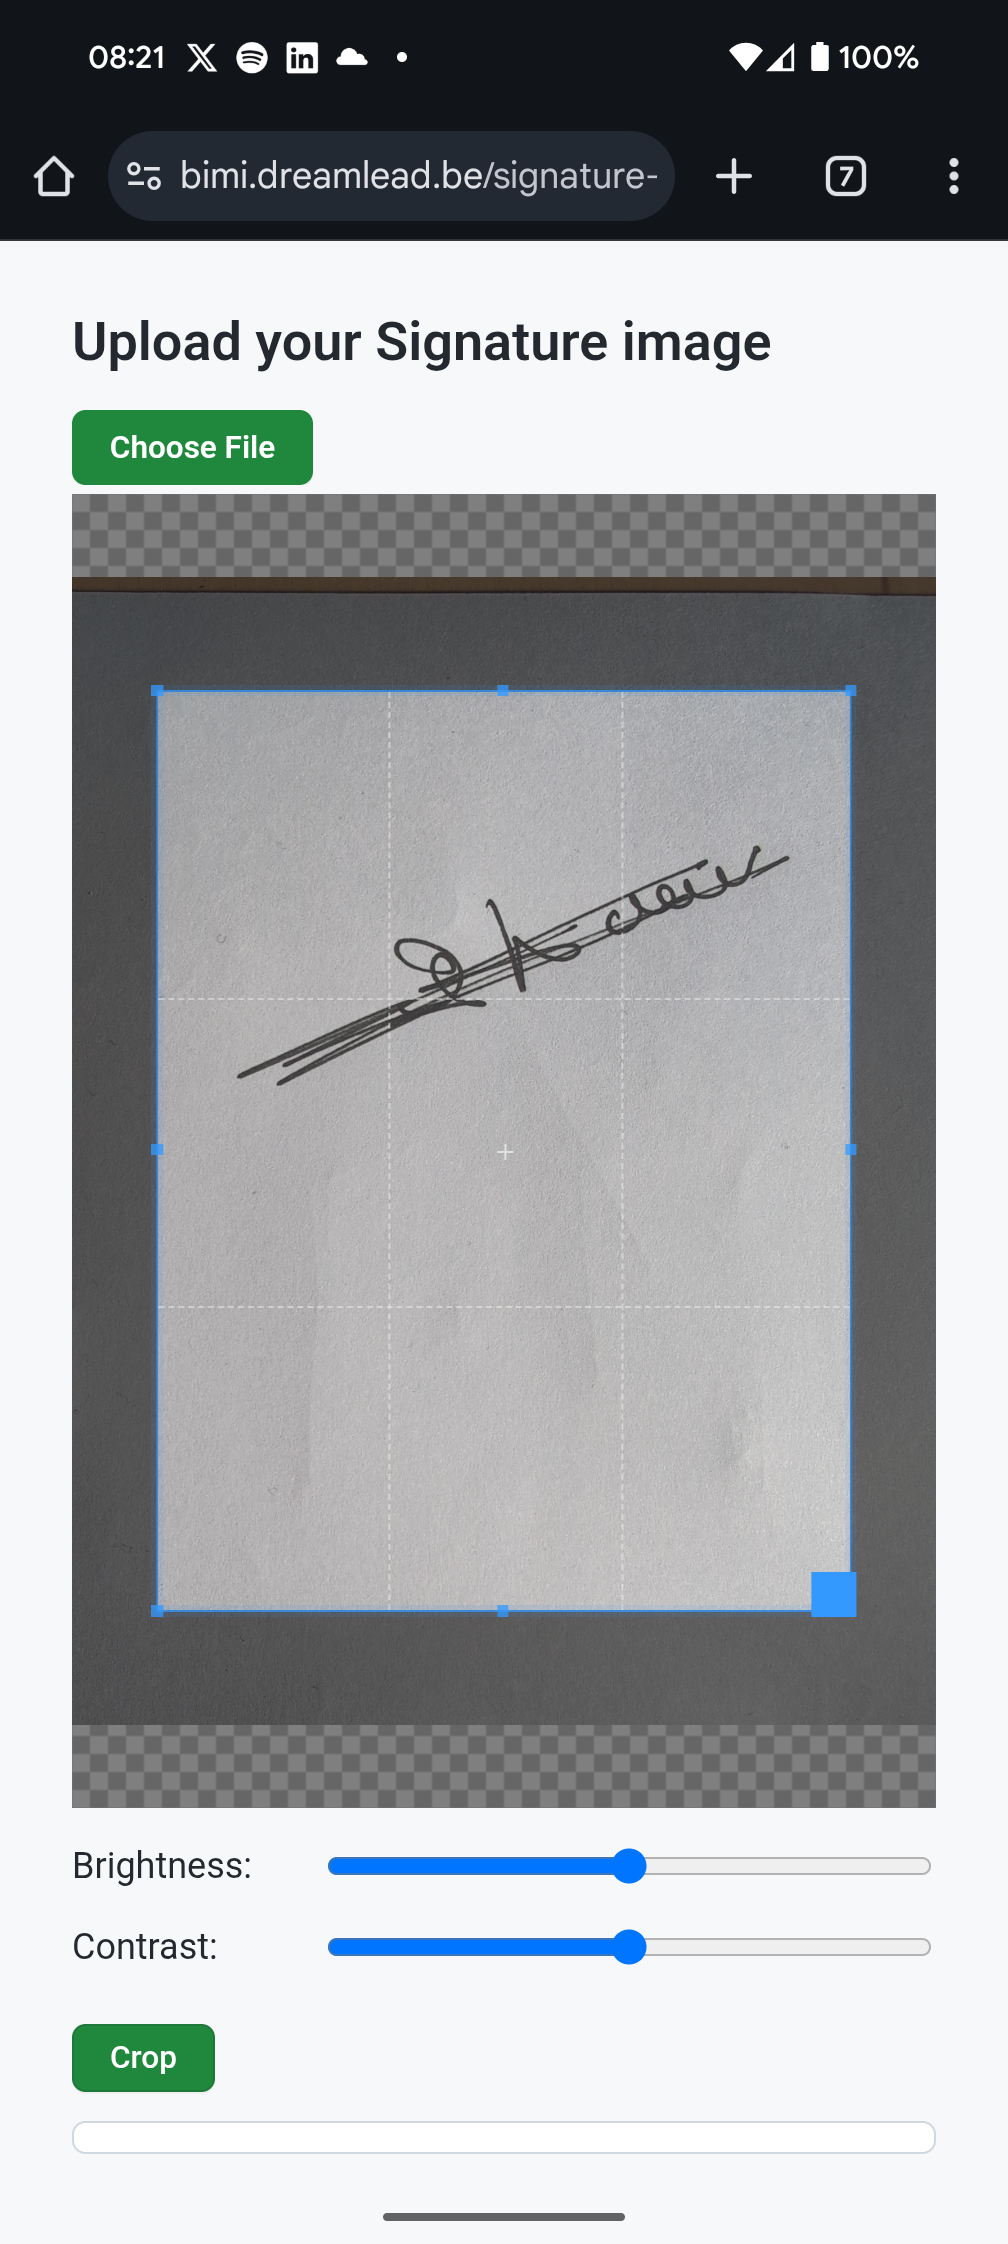
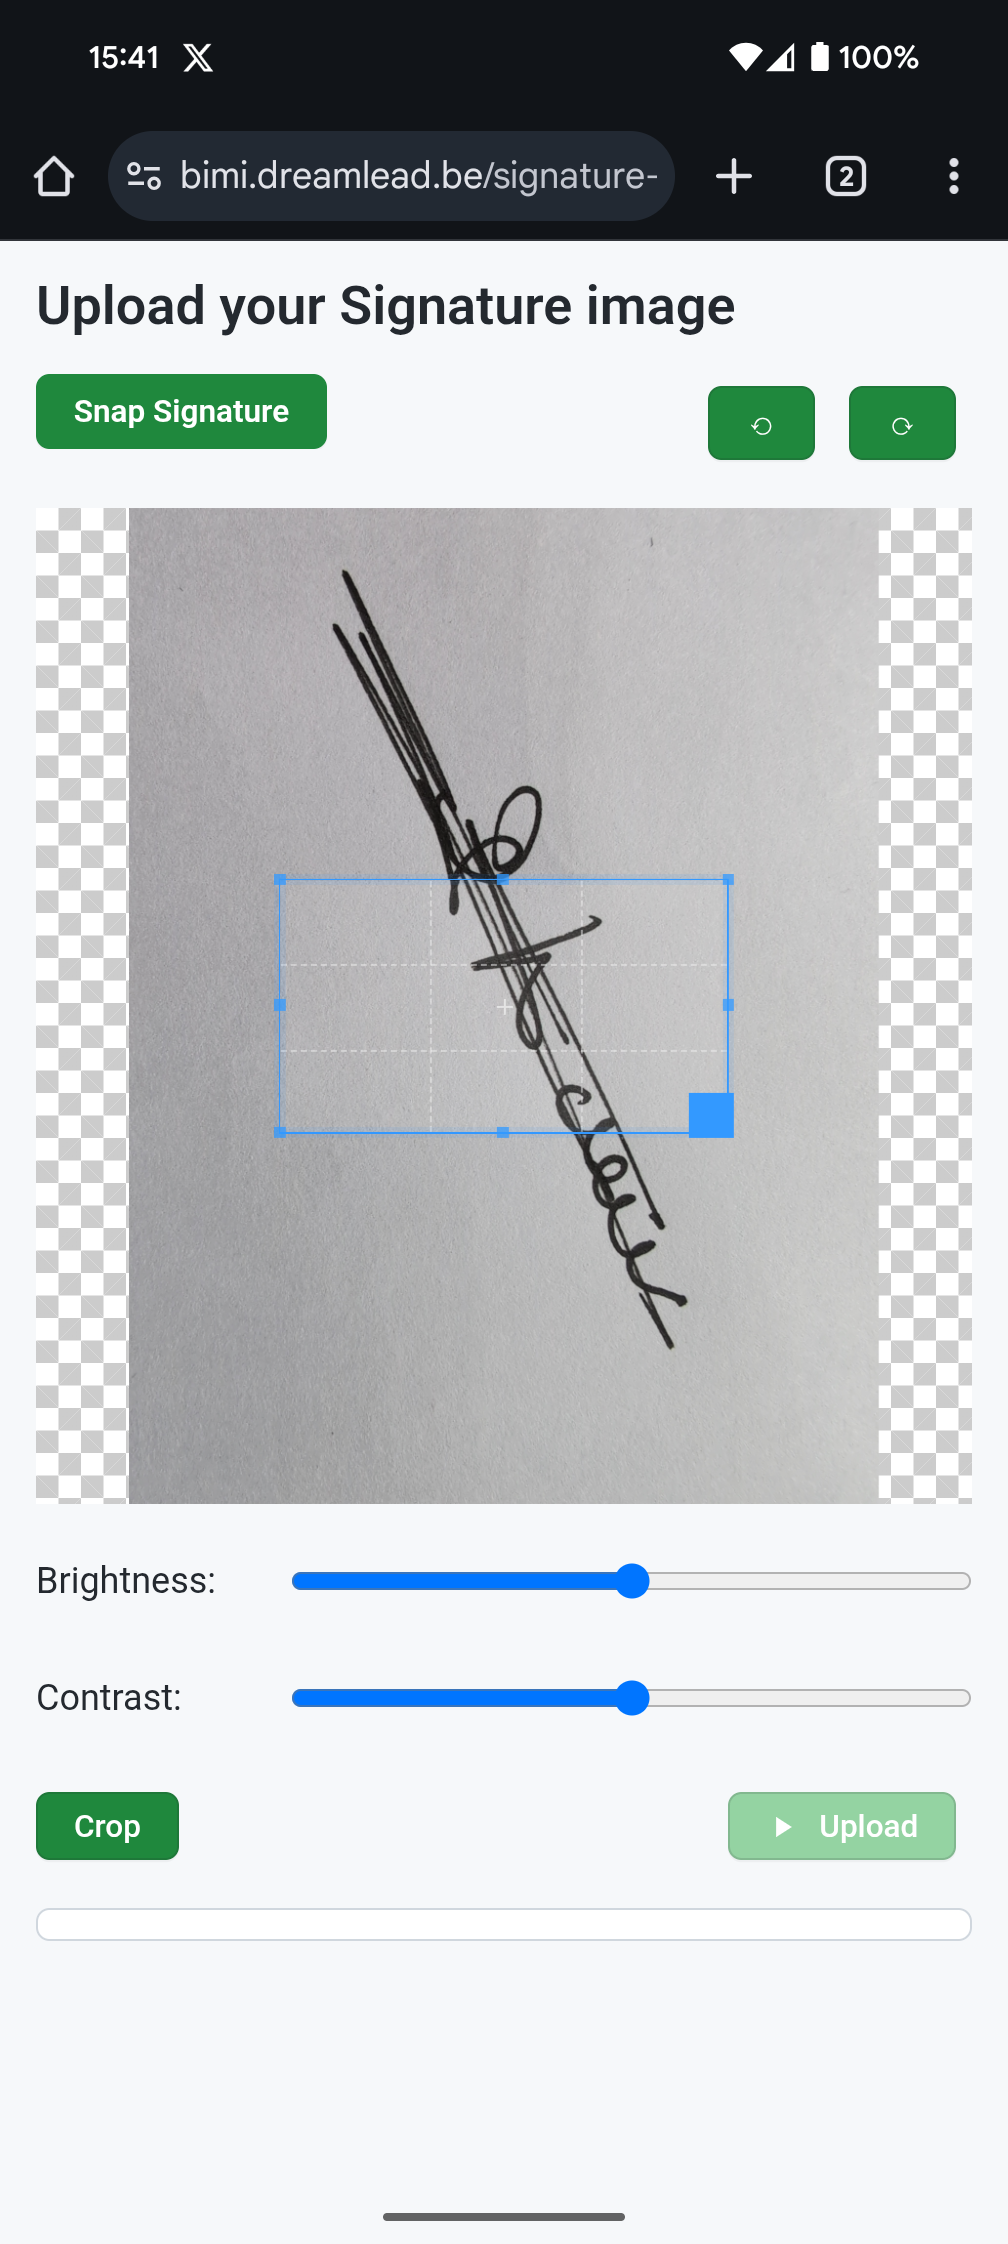
improve documentation + prevent popup

diff --git a/docs/signature-loader/cropperhelper.js b/docs/signature-loader/cropperhelper.js
@@ -275,6 +275,9 @@ fileInput.addEventListener('change', function (e) {
           },
         });
         resizeCropperContainer();
+        document.getElementById('cropperContainer').addEventListener('contextmenu', function(e) {
+          e.preventDefault();
+        });
       };
       preview.src = dataUrl;
     },

diff --git a/docs/signature-loader/README.md b/docs/signature-loader/README.md
@@ -27,11 +27,15 @@ Below, everything what's under the hood.
 This helper is part of this repo and hosted through GitHub Pages. All you need is the link to get started.\
 It can be used through desktop or mobile. Most practical is mobile, as this offers you the means of taking a snap and work with that directly, but desktop works as well.\
 Below is a step-by-step guide on mobile to illustrate.\
-💡The actual production link💡:  **https://johantre.github.io/msword-properties-generator/signature-loader/**
+💡The actual production link💡:  
+- **https://johantre.github.io/msword-properties-generator/signature-loader/** or 
+- **https://bimi.dreamlead.be/signature-loader/**
 
 ### Snap and adjust
-- On mobile, clicking the **"Choose file"** button opens up the camera app so you can take a snap of your signature.\
-Then adjust cropping, contrast and brightness to make your signature match with the background of the document it will be placed.
+- On mobile, clicking the **"Snap Signature"** button opens up the camera app so you can take a snap of your signature.\
+Then adjust cropping, contrast and brightness to make your signature match with the background of the document it will be placed.\
+On desktop, that same button will show **"Choose Signature image"**, where you can select an image from your device.
+- Signature snaps can be taken in an other orientation than shown on screen. Use the rotation buttons to orient them correctly.  
 - Click **"Crop"** at the bottom, and 
 - Click **"Upload"** to copy the generated link to your clipboard.\
 In case you copied something else and lost the download [Uguu](https://uguu.se/) link from your clipboard, you have a **"Copy link again"** button.
